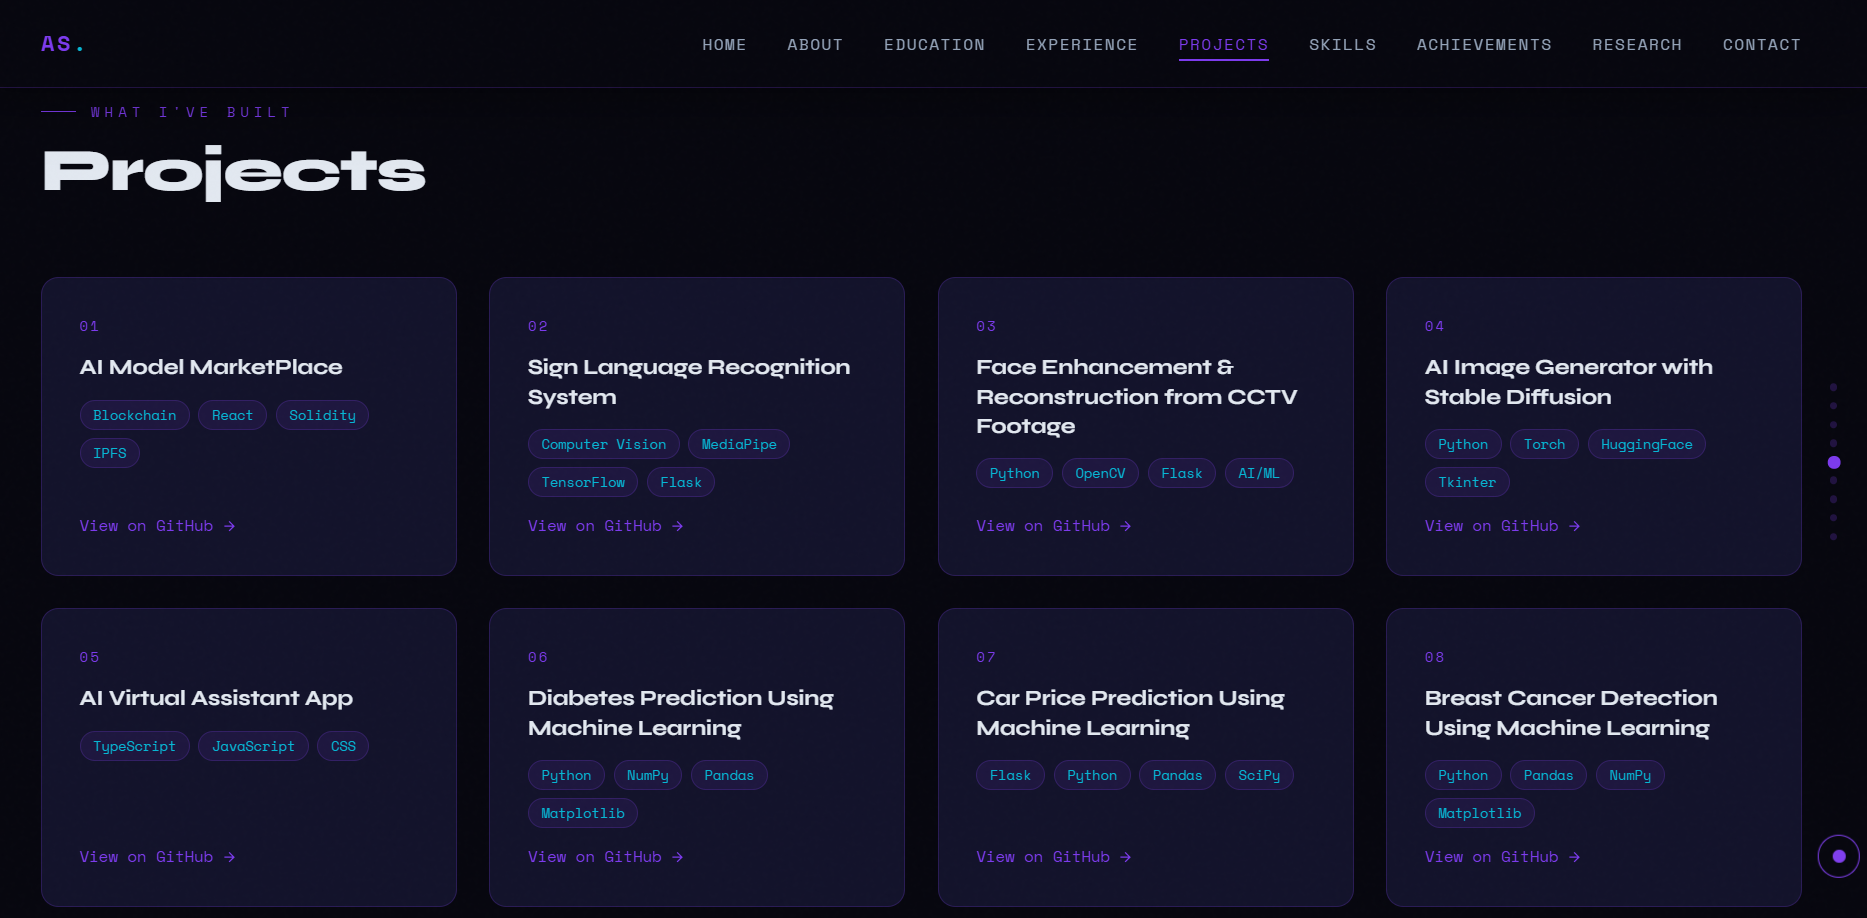
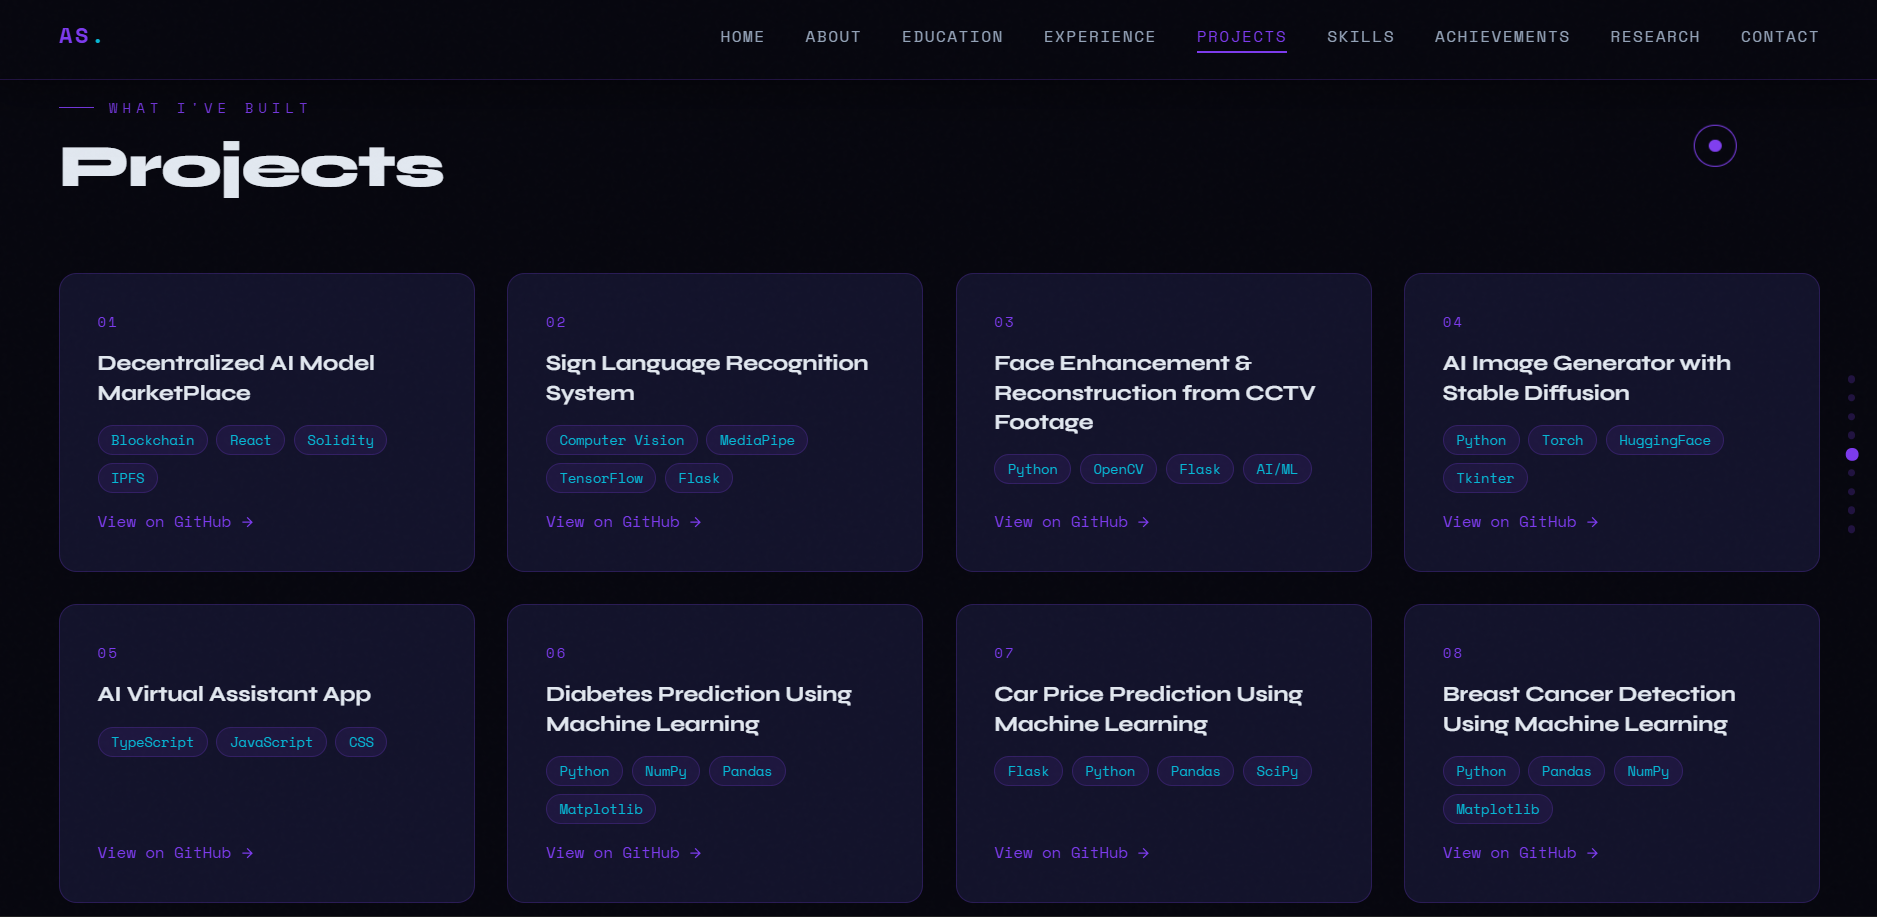
Update portfolio design and resume

diff --git a/index.html b/index.html
@@ -134,8 +134,8 @@
           </p>
           <p>
             Passionate about <strong>coding and problem-solving</strong>, with
-            hands-on experience in C, C++, Python, DSA, machine learning, and
-            front-end development. A quick learner and creative thinker, I love
+            hands-on experience in C, Python, DSA, Machine Learning, and
+            Full-Stack Development. A quick learner and creative thinker, I love
             exploring new skills and applying them with dedication.
           </p>
           <p>
@@ -280,7 +280,7 @@
       <div class="projects-grid reveal">
         <div class="project-card">
           <div class="project-num">01</div>
-          <div class="project-title">AI Model MarketPlace</div>
+          <div class="project-title">Decentralized AI Model MarketPlace</div>
           <div class="project-tech">
             <span class="tech-tag">Blockchain</span>
             <span class="tech-tag">React</span>

diff --git a/assets/js/main.js b/assets/js/main.js
@@ -12,9 +12,9 @@ document.addEventListener('DOMContentLoaded', () => {
     strings: [
       'AI/ML Engineer',
       'Python Developer',
-      'Frontend Developer',
+      'Full-Stack Developer',
       'Problem Solver',
-      'B.Tech CSE Student'
+      'B.Tech CSE(AIML) Student'
     ],
     typeSpeed: 60,
     backSpeed: 35,